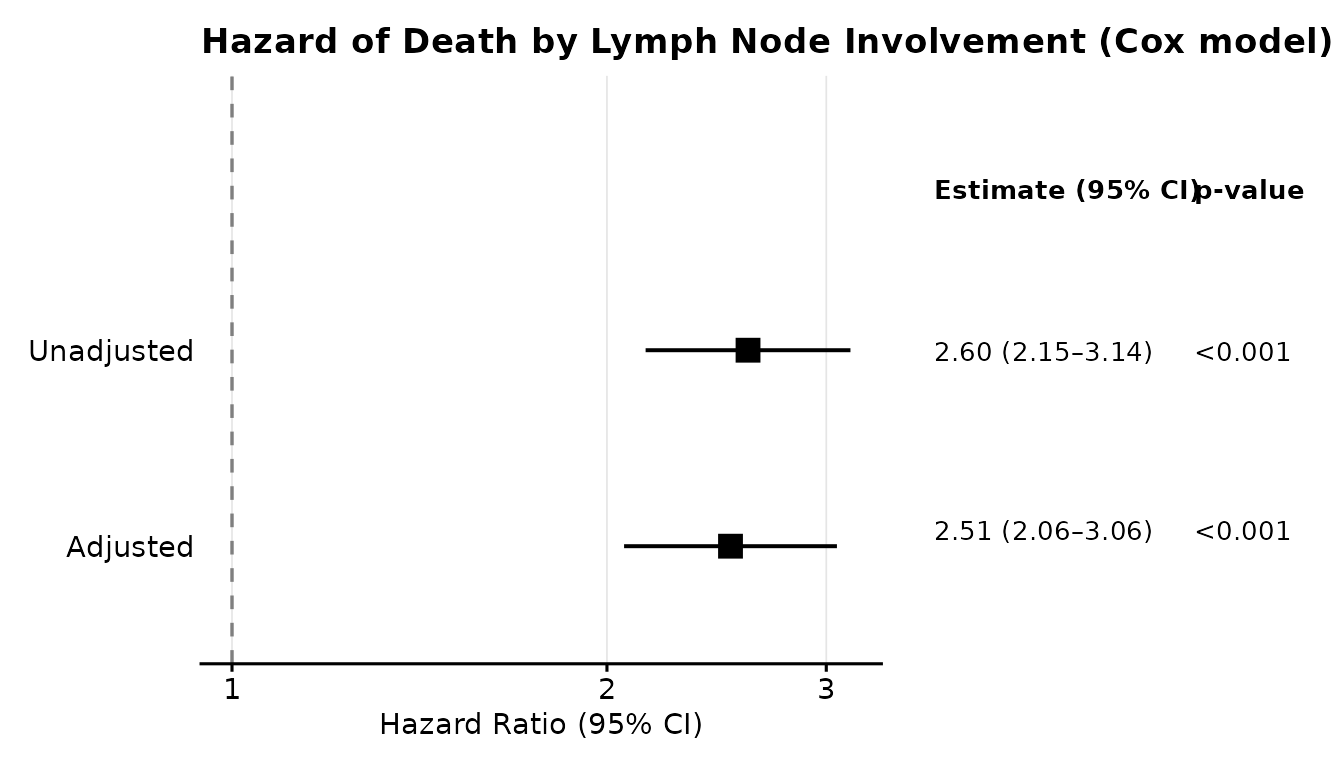
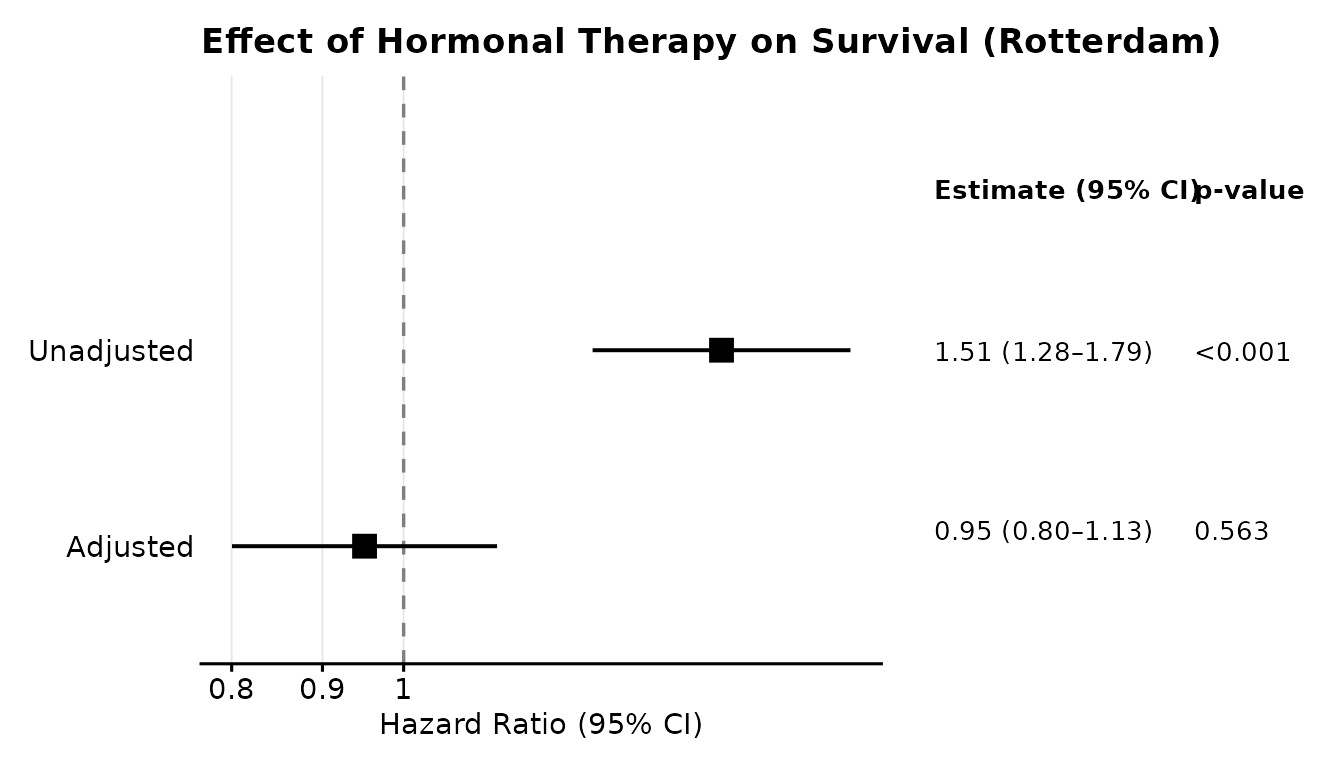
Deploying to gh-pages from @ kriz98/gg_adjusted_forest@31b8acd2979dd2a8793eb6f8a64baa50871c37f3 🚀

diff --git a/articles/introduction.html b/articles/introduction.html
@@ -20,7 +20,7 @@
 
     <a class="navbar-brand me-2" href="../index.html">ggadjustedforest</a>
 
-    <small class="nav-text text-muted me-auto" data-bs-toggle="tooltip" data-bs-placement="bottom" title="">0.1.0</small>
+    <small class="nav-text text-muted me-auto" data-bs-toggle="tooltip" data-bs-placement="bottom" title="">0.1.1</small>
 
 
     <button class="navbar-toggler" type="button" data-bs-toggle="collapse" data-bs-target="#navbar" aria-controls="navbar" aria-expanded="false" aria-label="Toggle navigation">
@@ -69,7 +69,10 @@
 <h2 id="installation">Installation<a class="anchor" aria-label="anchor" href="#installation"></a>
 </h2>
 <div class="sourceCode" id="cb1"><pre class="downlit sourceCode r">
-<code class="sourceCode R"><span><span class="co"># Install from GitHub (CRAN submission pending)</span></span>
+<code class="sourceCode R"><span><span class="co"># Install from CRAN</span></span>
+<span><span class="fu"><a href="https://rdrr.io/r/utils/install.packages.html" class="external-link">install.packages</a></span><span class="op">(</span><span class="st">"ggadjustedforest"</span><span class="op">)</span></span>
+<span></span>
+<span><span class="co"># Or install the development version from GitHub</span></span>
 <span><span class="co"># install.packages("remotes")</span></span>
 <span><span class="fu">remotes</span><span class="fu">::</span><span class="fu">install_github</span><span class="op">(</span><span class="st">"kriz98/gg_adjusted_forest"</span><span class="op">)</span></span></code></pre></div>
 </div>
@@ -109,7 +112,7 @@ nodes (<code>node4</code>) increases the risk of 5-year mortality,
 before and after adjusting for patient and tumour characteristics.</p>
 <div class="sourceCode" id="cb2"><pre class="downlit sourceCode r">
 <code class="sourceCode R"><span><span class="kw"><a href="https://rdrr.io/r/base/library.html" class="external-link">library</a></span><span class="op">(</span><span class="va"><a href="https://github.com/kriz98/gg_adjusted_forest" class="external-link">ggadjustedforest</a></span><span class="op">)</span></span>
-<span><span class="co">#&gt; ggadjustedforest 0.1.0 -- Forest plots for exposure effects, hiding confounders by design.</span></span>
+<span><span class="co">#&gt; ggadjustedforest 0.1.1 -- Forest plots for exposure effects, hiding confounders by design.</span></span>
 <span><span class="co">#&gt; See `?gg_adjusted_forest` to get started.</span></span>
 <span><span class="kw"><a href="https://rdrr.io/r/base/library.html" class="external-link">library</a></span><span class="op">(</span><span class="va"><a href="https://github.com/ewenharrison/finalfit" class="external-link">finalfit</a></span><span class="op">)</span></span>
 <span></span>
@@ -215,17 +218,46 @@ epidemiological reporting — use <code>cumulative = TRUE</code>. Use
 <h2 id="cox-proportional-hazards-regression">Cox proportional hazards regression<a class="anchor" aria-label="anchor" href="#cox-proportional-hazards-regression"></a>
 </h2>
 <p>For time-to-event outcomes supply <code>model_type = "coxph"</code>
-along with <code>time_var</code> and <code>event_var</code>:</p>
+along with <code>time_var</code> and <code>event_var</code>. This
+example uses the <code>rotterdam</code> breast cancer dataset from the
+<strong>survival</strong> package (2,982 primary breast cancer patients;
+Rotterdam tumour bank). The exposure of interest is hormonal therapy
+(<code>hormon</code>), adjusted for age, tumour size, grade, number of
+positive lymph nodes, and oestrogen receptor level.</p>
 <div class="sourceCode" id="cb7"><pre class="downlit sourceCode r">
-<code class="sourceCode R"><span><span class="va">result_cox</span> <span class="op">&lt;-</span> <span class="fu"><a href="../reference/gg_adjusted_forest.html">gg_adjusted_forest</a></span><span class="op">(</span></span>
-<span>  data       <span class="op">=</span> <span class="va">colon_s</span>,</span>
-<span>  outcome    <span class="op">=</span> <span class="st">"status"</span>,</span>
-<span>  exposure   <span class="op">=</span> <span class="st">"node4"</span>,</span>
-<span>  covariates <span class="op">=</span> <span class="va">confounders</span>,</span>
+<code class="sourceCode R"><span><span class="kw"><a href="https://rdrr.io/r/base/library.html" class="external-link">library</a></span><span class="op">(</span><span class="va"><a href="https://dplyr.tidyverse.org" class="external-link">dplyr</a></span><span class="op">)</span></span>
+<span><span class="co">#&gt; </span></span>
+<span><span class="co">#&gt; Attaching package: 'dplyr'</span></span>
+<span><span class="co">#&gt; The following objects are masked from 'package:stats':</span></span>
+<span><span class="co">#&gt; </span></span>
+<span><span class="co">#&gt;     filter, lag</span></span>
+<span><span class="co">#&gt; The following objects are masked from 'package:base':</span></span>
+<span><span class="co">#&gt; </span></span>
+<span><span class="co">#&gt;     intersect, setdiff, setequal, union</span></span>
+<span><span class="fu"><a href="https://rdrr.io/r/utils/data.html" class="external-link">data</a></span><span class="op">(</span><span class="va">cancer</span>, package <span class="op">=</span> <span class="st">"survival"</span><span class="op">)</span></span>
+<span></span>
+<span><span class="va">df</span> <span class="op">&lt;-</span> <span class="va">rotterdam</span> <span class="op">|&gt;</span></span>
+<span>  <span class="fu"><a href="https://dplyr.tidyverse.org/reference/transmute.html" class="external-link">transmute</a></span><span class="op">(</span></span>
+<span>    hormon <span class="op">=</span> <span class="va">hormon</span>,       <span class="co"># 1 = hormonal therapy, 0 = none</span></span>
+<span>    age    <span class="op">=</span> <span class="va">age</span>,</span>
+<span>    size   <span class="op">=</span> <span class="va">size</span>,         <span class="co"># tumour size (mm)</span></span>
+<span>    grade  <span class="op">=</span> <span class="va">grade</span>,        <span class="co"># tumour grade</span></span>
+<span>    nodes  <span class="op">=</span> <span class="va">nodes</span>,        <span class="co"># positive lymph nodes</span></span>
+<span>    er10   <span class="op">=</span> <span class="va">er</span> <span class="op">/</span> <span class="fl">10</span>,      <span class="co"># oestrogen receptor (fmol/10 l)</span></span>
+<span>    death  <span class="op">=</span> <span class="va">death</span>,</span>
+<span>    time   <span class="op">=</span> <span class="va">dtime</span></span>
+<span>  <span class="op">)</span> <span class="op">|&gt;</span></span>
+<span>  <span class="fu">tidyr</span><span class="fu">::</span><span class="fu"><a href="https://tidyr.tidyverse.org/reference/drop_na.html" class="external-link">drop_na</a></span><span class="op">(</span><span class="op">)</span></span>
+<span></span>
+<span><span class="va">result_cox</span> <span class="op">&lt;-</span> <span class="fu"><a href="../reference/gg_adjusted_forest.html">gg_adjusted_forest</a></span><span class="op">(</span></span>
+<span>  data       <span class="op">=</span> <span class="va">df</span>,</span>
+<span>  outcome    <span class="op">=</span> <span class="st">"death"</span>,</span>
+<span>  exposure   <span class="op">=</span> <span class="st">"hormon"</span>,</span>
+<span>  covariates <span class="op">=</span> <span class="fu"><a href="https://rdrr.io/r/base/c.html" class="external-link">c</a></span><span class="op">(</span><span class="st">"age"</span>, <span class="st">"size"</span>, <span class="st">"grade"</span>, <span class="st">"nodes"</span>, <span class="st">"er10"</span><span class="op">)</span>,</span>
 <span>  model_type <span class="op">=</span> <span class="st">"coxph"</span>,</span>
-<span>  time_var   <span class="op">=</span> <span class="st">"time.years"</span>,</span>
-<span>  event_var  <span class="op">=</span> <span class="st">"status"</span>,</span>
-<span>  title      <span class="op">=</span> <span class="st">"Hazard of Death by Lymph Node Involvement (Cox model)"</span></span>
+<span>  time_var   <span class="op">=</span> <span class="st">"time"</span>,</span>
+<span>  event_var  <span class="op">=</span> <span class="st">"death"</span>,</span>
+<span>  title      <span class="op">=</span> <span class="st">"Effect of Hormonal Therapy on Survival (Rotterdam)"</span></span>
 <span><span class="op">)</span></span>
 <span><span class="va">result_cox</span><span class="op">$</span><span class="va">plot</span></span></code></pre></div>
 <p><img src="introduction_files/figure-html/cox-1.png" class="r-plt" alt="" width="672"></p>

diff --git a/index.html b/index.html
@@ -22,7 +22,7 @@
 
     <a class="navbar-brand me-2" href="index.html">ggadjustedforest</a>
 
-    <small class="nav-text text-muted me-auto" data-bs-toggle="tooltip" data-bs-placement="bottom" title="">0.1.0</small>
+    <small class="nav-text text-muted me-auto" data-bs-toggle="tooltip" data-bs-placement="bottom" title="">0.1.1</small>
 
 
     <button class="navbar-toggler" type="button" data-bs-toggle="collapse" data-bs-target="#navbar" aria-controls="navbar" aria-expanded="false" aria-label="Toggle navigation">
@@ -67,7 +67,10 @@
 <h2 id="installation">Installation<a class="anchor" aria-label="anchor" href="#installation"></a>
 </h2>
 <div class="sourceCode" id="cb1"><pre class="downlit sourceCode r">
-<code class="sourceCode R"><span><span class="co"># Install from GitHub (CRAN submission pending)</span></span>
+<code class="sourceCode R"><span><span class="co"># Install from CRAN</span></span>
+<span><span class="fu"><a href="https://rdrr.io/r/utils/install.packages.html" class="external-link">install.packages</a></span><span class="op">(</span><span class="st">"ggadjustedforest"</span><span class="op">)</span></span>
+<span></span>
+<span><span class="co"># Or install the development version from GitHub</span></span>
 <span><span class="co"># install.packages("remotes")</span></span>
 <span><span class="fu">remotes</span><span class="fu">::</span><span class="fu">install_github</span><span class="op">(</span><span class="st">"kriz98/gg_adjusted_forest"</span><span class="op">)</span></span></code></pre></div>
 </div>
@@ -127,16 +130,32 @@
 <span>                          show_table <span class="op">=</span> <span class="cn">FALSE</span><span class="op">)</span><span class="op">$</span><span class="va">plot</span></span>
 <span><span class="va">p1</span> <span class="op">/</span> <span class="va">p2</span></span>
 <span></span>
-<span><span class="co"># Cox proportional hazards</span></span>
+<span><span class="co"># Cox proportional hazards — rotterdam breast cancer data (survival package)</span></span>
+<span><span class="kw"><a href="https://rdrr.io/r/base/library.html" class="external-link">library</a></span><span class="op">(</span><span class="va"><a href="https://dplyr.tidyverse.org" class="external-link">dplyr</a></span><span class="op">)</span></span>
+<span><span class="fu"><a href="https://rdrr.io/r/utils/data.html" class="external-link">data</a></span><span class="op">(</span><span class="va">cancer</span>, package <span class="op">=</span> <span class="st">"survival"</span><span class="op">)</span></span>
+<span></span>
+<span><span class="va">df</span> <span class="op">&lt;-</span> <span class="va">rotterdam</span> <span class="op">|&gt;</span></span>
+<span>  <span class="fu"><a href="https://dplyr.tidyverse.org/reference/transmute.html" class="external-link">transmute</a></span><span class="op">(</span></span>
+<span>    hormon <span class="op">=</span> <span class="va">hormon</span>,</span>
+<span>    age    <span class="op">=</span> <span class="va">age</span>,</span>
+<span>    size   <span class="op">=</span> <span class="va">size</span>,</span>
+<span>    grade  <span class="op">=</span> <span class="va">grade</span>,</span>
+<span>    nodes  <span class="op">=</span> <span class="va">nodes</span>,</span>
+<span>    er10   <span class="op">=</span> <span class="va">er</span> <span class="op">/</span> <span class="fl">10</span>,</span>
+<span>    death  <span class="op">=</span> <span class="va">death</span>,</span>
+<span>    time   <span class="op">=</span> <span class="va">dtime</span></span>
+<span>  <span class="op">)</span> <span class="op">|&gt;</span></span>
+<span>  <span class="fu">tidyr</span><span class="fu">::</span><span class="fu"><a href="https://tidyr.tidyverse.org/reference/drop_na.html" class="external-link">drop_na</a></span><span class="op">(</span><span class="op">)</span></span>
+<span></span>
 <span><span class="va">cox_result</span> <span class="op">&lt;-</span> <span class="fu"><a href="reference/gg_adjusted_forest.html">gg_adjusted_forest</a></span><span class="op">(</span></span>
-<span>  data       <span class="op">=</span> <span class="va">colon_s</span>,</span>
-<span>  outcome    <span class="op">=</span> <span class="st">"status"</span>,</span>
-<span>  exposure   <span class="op">=</span> <span class="st">"node4"</span>,</span>
-<span>  covariates <span class="op">=</span> <span class="va">confounders</span>,</span>
+<span>  data       <span class="op">=</span> <span class="va">df</span>,</span>
+<span>  outcome    <span class="op">=</span> <span class="st">"death"</span>,</span>
+<span>  exposure   <span class="op">=</span> <span class="st">"hormon"</span>,</span>
+<span>  covariates <span class="op">=</span> <span class="fu"><a href="https://rdrr.io/r/base/c.html" class="external-link">c</a></span><span class="op">(</span><span class="st">"age"</span>, <span class="st">"size"</span>, <span class="st">"grade"</span>, <span class="st">"nodes"</span>, <span class="st">"er10"</span><span class="op">)</span>,</span>
 <span>  model_type <span class="op">=</span> <span class="st">"coxph"</span>,</span>
-<span>  time_var   <span class="op">=</span> <span class="st">"time.years"</span>,</span>
-<span>  event_var  <span class="op">=</span> <span class="st">"status"</span>,</span>
-<span>  title      <span class="op">=</span> <span class="st">"Hazard of Death by Lymph Node Involvement"</span></span>
+<span>  time_var   <span class="op">=</span> <span class="st">"time"</span>,</span>
+<span>  event_var  <span class="op">=</span> <span class="st">"death"</span>,</span>
+<span>  title      <span class="op">=</span> <span class="st">"Effect of Hormonal Therapy on Survival (Rotterdam)"</span></span>
 <span><span class="op">)</span></span>
 <span><span class="va">cox_result</span><span class="op">$</span><span class="va">plot</span></span></code></pre></div>
 </div>
@@ -191,6 +210,7 @@
   </main><aside class="col-md-3"><div class="links">
 <h2 data-toc-skip>Links</h2>
 <ul class="list-unstyled">
+<li><a href="https://cloud.r-project.org/package=ggadjustedforest" class="external-link">View on CRAN</a></li>
 <li><a href="https://github.com/kriz98/gg_adjusted_forest/" class="external-link">Browse source code</a></li>
 <li><a href="https://github.com/kriz98/gg_adjusted_forest/issues" class="external-link">Report a bug</a></li>
 </ul>

diff --git a/news/index.html b/news/index.html
@@ -7,7 +7,7 @@
 
     <a class="navbar-brand me-2" href="../index.html">ggadjustedforest</a>
 
-    <small class="nav-text text-muted me-auto" data-bs-toggle="tooltip" data-bs-placement="bottom" title="">0.1.0</small>
+    <small class="nav-text text-muted me-auto" data-bs-toggle="tooltip" data-bs-placement="bottom" title="">0.1.1</small>
 
 
     <button class="navbar-toggler" type="button" data-bs-toggle="collapse" data-bs-target="#navbar" aria-controls="navbar" aria-expanded="false" aria-label="Toggle navigation">
@@ -37,7 +37,16 @@
     </div>
 
     <div class="section level2">
-<h2 class="pkg-version" data-toc-text="0.1.0" id="ggadjustedforest-010">ggadjustedforest 0.1.0<a class="anchor" aria-label="anchor" href="#ggadjustedforest-010"></a></h2>
+<h2 class="pkg-version" data-toc-text="0.1.1" id="ggadjustedforest-011">ggadjustedforest 0.1.1<a class="anchor" aria-label="anchor" href="#ggadjustedforest-011"></a></h2>
+<div class="section level3">
+<h3 id="documentation-0-1-1">Documentation<a class="anchor" aria-label="anchor" href="#documentation-0-1-1"></a></h3>
+<ul><li>Updated vignette and README examples to use the <code>rotterdam</code> breast cancer dataset (from <strong>survival</strong>) for the Cox model demonstration.</li>
+<li>Installation instructions updated to reflect CRAN availability.</li>
+<li>Long plot titles now wrap automatically to prevent clipping.</li>
+</ul></div>
+</div>
+    <div class="section level2">
+<h2 class="pkg-version" data-toc-text="0.1.0" id="ggadjustedforest-010">ggadjustedforest 0.1.0<a class="anchor" aria-label="anchor" href="#ggadjustedforest-010"></a></h2><p class="text-muted">CRAN release: 2026-07-17</p>
 <div class="section level3">
 <h3 id="initial-release-0-1-0">Initial release<a class="anchor" aria-label="anchor" href="#initial-release-0-1-0"></a></h3>
 <ul><li>

diff --git a/authors.html b/authors.html
@@ -7,7 +7,7 @@
 
     <a class="navbar-brand me-2" href="index.html">ggadjustedforest</a>
 
-    <small class="nav-text text-muted me-auto" data-bs-toggle="tooltip" data-bs-placement="bottom" title="">0.1.0</small>
+    <small class="nav-text text-muted me-auto" data-bs-toggle="tooltip" data-bs-placement="bottom" title="">0.1.1</small>
 
 
     <button class="navbar-toggler" type="button" data-bs-toggle="collapse" data-bs-target="#navbar" aria-controls="navbar" aria-expanded="false" aria-label="Toggle navigation">
@@ -50,13 +50,13 @@
 
       <p>Varghese C (2026).
 <em>ggadjustedforest: Publication Ready Forest Plots for Estimand of Interest</em>.
-R package version 0.1.0, <a href="https://github.com/kriz98/gg_adjusted_forest" class="external-link">https://github.com/kriz98/gg_adjusted_forest</a>.
+R package version 0.1.1, <a href="https://github.com/kriz98/gg_adjusted_forest" class="external-link">https://github.com/kriz98/gg_adjusted_forest</a>.
 </p>
       <pre>@Manual{,
   title = {ggadjustedforest: Publication Ready Forest Plots for Estimand of Interest},
   author = {Chris Varghese},
   year = {2026},
-  note = {R package version 0.1.0},
+  note = {R package version 0.1.1},
   url = {https://github.com/kriz98/gg_adjusted_forest},
 }</pre>
     </div>

diff --git a/404.html b/404.html
@@ -20,7 +20,7 @@
 
     <a class="navbar-brand me-2" href="https://kriz98.github.io/gg_adjusted_forest/index.html">ggadjustedforest</a>
 
-    <small class="nav-text text-muted me-auto" data-bs-toggle="tooltip" data-bs-placement="bottom" title="">0.1.0</small>
+    <small class="nav-text text-muted me-auto" data-bs-toggle="tooltip" data-bs-placement="bottom" title="">0.1.1</small>
 
 
     <button class="navbar-toggler" type="button" data-bs-toggle="collapse" data-bs-target="#navbar" aria-controls="navbar" aria-expanded="false" aria-label="Toggle navigation">

diff --git a/LICENSE-text.html b/LICENSE-text.html
@@ -7,7 +7,7 @@
 
     <a class="navbar-brand me-2" href="index.html">ggadjustedforest</a>
 
-    <small class="nav-text text-muted me-auto" data-bs-toggle="tooltip" data-bs-placement="bottom" title="">0.1.0</small>
+    <small class="nav-text text-muted me-auto" data-bs-toggle="tooltip" data-bs-placement="bottom" title="">0.1.1</small>
 
 
     <button class="navbar-toggler" type="button" data-bs-toggle="collapse" data-bs-target="#navbar" aria-controls="navbar" aria-expanded="false" aria-label="Toggle navigation">

diff --git a/LICENSE.html b/LICENSE.html
@@ -7,7 +7,7 @@
 
     <a class="navbar-brand me-2" href="index.html">ggadjustedforest</a>
 
-    <small class="nav-text text-muted me-auto" data-bs-toggle="tooltip" data-bs-placement="bottom" title="">0.1.0</small>
+    <small class="nav-text text-muted me-auto" data-bs-toggle="tooltip" data-bs-placement="bottom" title="">0.1.1</small>
 
 
     <button class="navbar-toggler" type="button" data-bs-toggle="collapse" data-bs-target="#navbar" aria-controls="navbar" aria-expanded="false" aria-label="Toggle navigation">

diff --git a/articles/index.html b/articles/index.html
@@ -7,7 +7,7 @@
 
     <a class="navbar-brand me-2" href="../index.html">ggadjustedforest</a>
 
-    <small class="nav-text text-muted me-auto" data-bs-toggle="tooltip" data-bs-placement="bottom" title="">0.1.0</small>
+    <small class="nav-text text-muted me-auto" data-bs-toggle="tooltip" data-bs-placement="bottom" title="">0.1.1</small>
 
 
     <button class="navbar-toggler" type="button" data-bs-toggle="collapse" data-bs-target="#navbar" aria-controls="navbar" aria-expanded="false" aria-label="Toggle navigation">

diff --git a/reference/forest_table.html b/reference/forest_table.html
@@ -11,7 +11,7 @@ graphic."></head><body>
 
     <a class="navbar-brand me-2" href="../index.html">ggadjustedforest</a>
 
-    <small class="nav-text text-muted me-auto" data-bs-toggle="tooltip" data-bs-placement="bottom" title="">0.1.0</small>
+    <small class="nav-text text-muted me-auto" data-bs-toggle="tooltip" data-bs-placement="bottom" title="">0.1.1</small>
 
 
     <button class="navbar-toggler" type="button" data-bs-toggle="collapse" data-bs-target="#navbar" aria-controls="navbar" aria-expanded="false" aria-label="Toggle navigation">

diff --git a/reference/gg_adjusted_forest.html b/reference/gg_adjusted_forest.html
@@ -13,7 +13,7 @@ principles."></head><body>
 
     <a class="navbar-brand me-2" href="../index.html">ggadjustedforest</a>
 
-    <small class="nav-text text-muted me-auto" data-bs-toggle="tooltip" data-bs-placement="bottom" title="">0.1.0</small>
+    <small class="nav-text text-muted me-auto" data-bs-toggle="tooltip" data-bs-placement="bottom" title="">0.1.1</small>
 
 
     <button class="navbar-toggler" type="button" data-bs-toggle="collapse" data-bs-target="#navbar" aria-controls="navbar" aria-expanded="false" aria-label="Toggle navigation">

diff --git a/reference/index.html b/reference/index.html
@@ -7,7 +7,7 @@
 
     <a class="navbar-brand me-2" href="../index.html">ggadjustedforest</a>
 
-    <small class="nav-text text-muted me-auto" data-bs-toggle="tooltip" data-bs-placement="bottom" title="">0.1.0</small>
+    <small class="nav-text text-muted me-auto" data-bs-toggle="tooltip" data-bs-placement="bottom" title="">0.1.1</small>
 
 
     <button class="navbar-toggler" type="button" data-bs-toggle="collapse" data-bs-target="#navbar" aria-controls="navbar" aria-expanded="false" aria-label="Toggle navigation">

diff --git a/reference/plot.ggadjustedforest.html b/reference/plot.ggadjustedforest.html
@@ -7,7 +7,7 @@
 
     <a class="navbar-brand me-2" href="../index.html">ggadjustedforest</a>
 
-    <small class="nav-text text-muted me-auto" data-bs-toggle="tooltip" data-bs-placement="bottom" title="">0.1.0</small>
+    <small class="nav-text text-muted me-auto" data-bs-toggle="tooltip" data-bs-placement="bottom" title="">0.1.1</small>
 
 
     <button class="navbar-toggler" type="button" data-bs-toggle="collapse" data-bs-target="#navbar" aria-controls="navbar" aria-expanded="false" aria-label="Toggle navigation">